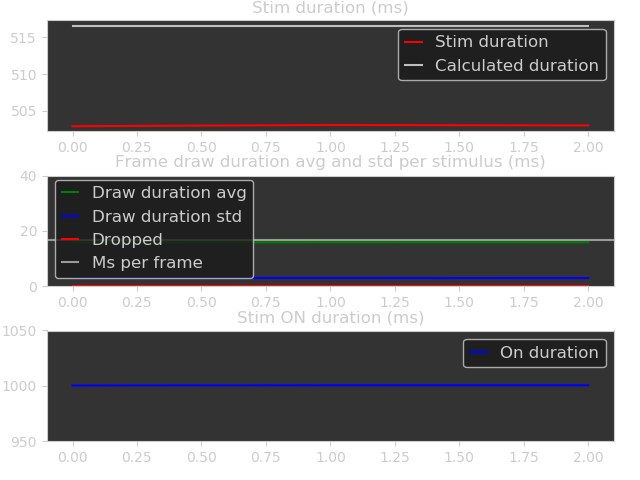
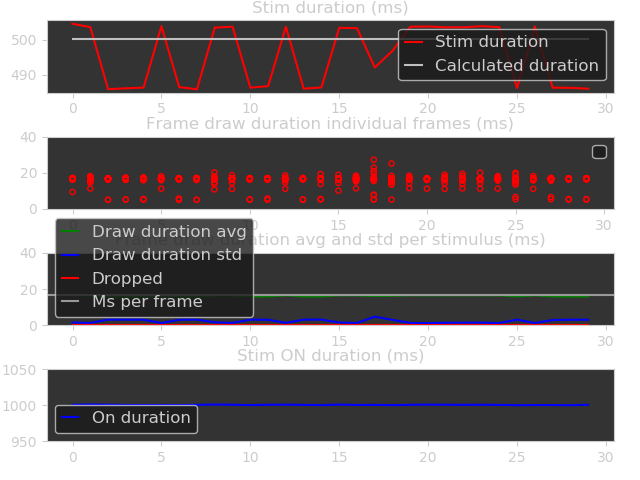
added stuff to plotting

diff --git a/UI_app.py b/UI_app.py
@@ -101,12 +101,13 @@ class Main_UI(QWidget):
         self.benchmark_results = {'Stim name': None,
                                   'Monitor name': None,
                                   'Stim duration': [],
+                                  'Draw duration all': [],
                                   'Draw duration avg': [],
                                   'Draw duration std': [],
                                   'On time duration': [],
                                   'Number frames per stim': [],
                                   'Number dropped frames': []}
-        self.tests_done, self.number_of_tests = 0, 3
+        self.tests_done, self.number_of_tests = 0, 30
 
 ####################################################################################################################
     """    DEFINE THE LAYOUT AND LOOKS OF THE GUI  """
@@ -500,11 +501,11 @@ class Main_UI(QWidget):
             if self.stim_frame_number == len(self.stim_frames[-1]):  # the last elemnt in stim frames is as long as the duration of the stim
                 # We reached the end of the stim frames, keep the stim on for a number of ms and then clean up
                 # Print time to last draw and from first draw to last
-                print('     ... Last stim draw was {}ms ago\n    ... From stim creation to last draw: {}'.
+                print('     ... Last stim draw was {}ms ago\n     ... From stim creation to last draw: {}'.
                       format((time.clock()-self.last_draw)*1000, (self.last_draw - self.stim_timer)*1000))
                 self.draws = np.array(self.draws)[1:-1]
 
-                avg_draw, std_draw = np.mean(self.draws), np.std(self.draws)
+                all_draws, avg_draw, std_draw = self.draws.copy(), np.mean(self.draws), np.std(self.draws)
                 print('     ... avg time between draws: {}, std {}'.format(avg_draw, std_draw))
 
                 self.draws = []
@@ -532,6 +533,7 @@ class Main_UI(QWidget):
                     self.benchmark_results['Ms per frame'] = self.screenMs
                     self.benchmark_results['Stim duration'].append(elapsed)
                     self.benchmark_results['On time duration'].append(slept)
+                    self.benchmark_results['Draw duration all'].append(all_draws)
                     self.benchmark_results['Draw duration avg'].append(avg_draw)
                     self.benchmark_results['Draw duration std'].append(std_draw)
                     self.benchmark_results['Number frames per stim'].append(len(self.stim_frames[-1])-1)

diff --git a/benchmark_results_analysis.py b/benchmark_results_analysis.py
@@ -1,6 +1,7 @@
 import matplotlib.pyplot as plt
 import matplotlib
 import datetime
+import numpy as np
 
 matplotlib.rc('axes',edgecolor=[0.8, 0.8, 0.8])
 matplotlib.rcParams['text.color'] = [0.8, 0.8, 0.8]
@@ -15,7 +16,7 @@ plt.rcParams.update(params)
 
 
 def plot_benchmark_results(results):
-    f, axarr = plt.subplots(3, 1, facecolor=[0.1, 0.1, 0.1])
+    f, axarr = plt.subplots(4, 1, facecolor=[0.1, 0.1, 0.1])
     f.tight_layout()
     for idx, ax in enumerate(axarr):
         ax.set(facecolor=[0.2, 0.2, 0.2])
@@ -25,14 +26,21 @@ def plot_benchmark_results(results):
     axarr[0].plot([x*results['Ms per frame'] for x in results['Number frames per stim']],
                   color=[0.75, 0.75, 0.75], label='Calculated duration')
 
-    axarr[1].set(title='Frame draw duration avg and std per stimulus (ms)', ylim=[0, 40])
-    axarr[1].plot(results['Draw duration avg'], color='green', label='Draw duration avg')
-    axarr[1].plot(results['Draw duration std'], color='blue', label='Draw duration std')
-    axarr[1].plot(results['Number dropped frames'], color='red', label='Dropped')
-    axarr[1].axhline(results['Ms per frame'], color=[.6, .6, .6], label='Ms per frame')
+    axarr[1].set(title='Frame draw duration individual frames (ms)', ylim=[0, 40])
+    xx = [np.ones(len(x))*idx for idx,x in enumerate(results['Draw duration all'])]
 
-    axarr[2].set(title='Stim ON duration (ms)', ylim=[950, 1050])
-    axarr[2].plot([x*1000 for x in results['On time duration']], color='blue', label='On duration')
+    for num in range(len(xx)):
+        axarr[1].scatter(xx[num], results['Draw duration all'][num], alpha=0.5, s=14, facecolor="None",
+         edgecolor='red')
+
+    axarr[2].set(title='Frame draw duration avg and std per stimulus (ms)', ylim=[0, 40])
+    axarr[2].plot(results['Draw duration avg'], color='green', label='Draw duration avg')
+    axarr[2].plot(results['Draw duration std'], color='blue', label='Draw duration std')
+    axarr[2].plot(results['Number dropped frames'], color='red', label='Dropped')
+    axarr[2].axhline(results['Ms per frame'], color=[.6, .6, .6], label='Ms per frame')
+
+    axarr[3].set(title='Stim ON duration (ms)', ylim=[950, 1050])
+    axarr[3].plot([x*1000 for x in results['On time duration']], color='blue', label='On duration')
 
     for ax in axarr:
         legend = ax.legend(frameon=True)
